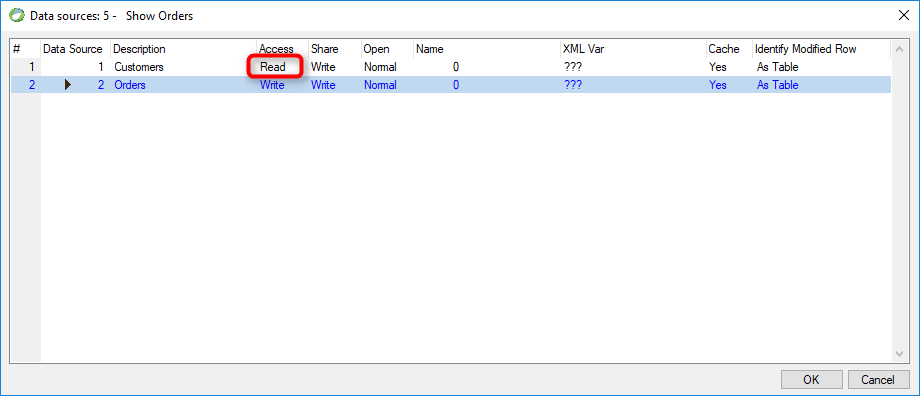
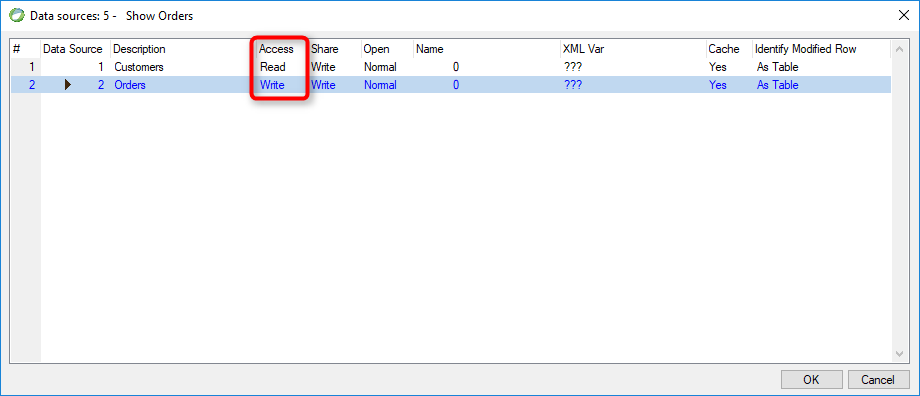
Update

Changed region(s): [[0.2435, 0.0909, 0.3652, 0.2727]]

diff --git a/access.html b/access.html
@@ -4,9 +4,9 @@
 <head>
     <meta http-equiv="X-UA-Compatible" content="IE=Edge" />
     <meta charset="utf-8" />
-    <meta name="keywords" content="Data Source, models">
+    <meta name="keywords" content="Datasource, Model , Table, Access, Read, Write">
 
-    <title>Data sources (Ctrl+D)</title>
+    <title>Read</title>
     <link rel="shortcut icon" href="favicon.png" type="image/x-icon" />
     <link rel="stylesheet" href="assets/css/toc.css" />
     <link rel="stylesheet" href="assets/css/highlight.css" />
@@ -29,15 +29,44 @@
                     <a id="previousButton" class="btn btn-neutral float-left" style="visibility:hidden">Previous</a>
                     <a id="nextButton" class="btn btn-neutral float-right" style="visibility:hidden">Next</a>
                 </div>
-                <div class="content"><h1 id="data-sources-ctrld">Data sources (Ctrl+D)</h1>
-<p>The following notes explain the equivalent to these properties in the migrated code.</p>
-<p><img src="2017-11-28_15h32_01.png" alt="" /></p>
+                <div class="content"><h1 id="read">Read</h1>
+<p>Name in Migrated Code: <strong>ReadOnly</strong> / <strong>AllowRowLocking</strong><br />
+Location in Migrated Code: <strong>Model Initializer</strong></p>
+<p><img src="2017-11-28_15h01_43.png" alt="" /></p>
+<h2 id="migrated-code-example">Migrated Code Example</h2>
+<p>Example Read:</p>
+<pre data-line="3" class="language-csdiff line-numbers"><code>readonly Models.Customers Customers = new Models.Customers 
+{ 
+         ReadOnly = true 
+}; </code></pre>
+<p>Example Write:</p>
+<pre data-line="3" class="language-csdiff line-numbers"><code>readonly Models.Customers Customers = new Models.Customers 
+{ 
+         AllowRowLocking = true
+}; </code></pre>
+<h2 id="property-values">Property Values</h2>
+<table>
+<thead>
+<tr>
+<th>Magic</th>
+<th>Migrated Code</th>
+</tr>
+</thead>
+<tbody>
+<tr>
+<td>Access = Write</td>
+<td>AllowRowLocking = true</td>
+</tr>
+<tr>
+<td>Access = Read</td>
+<td>ReadOnly = true</td>
+</tr>
+</tbody>
+</table>
+<h2 id="see-also">See Also :</h2>
 <ul>
-<li><a href="access.html">Access</a></li>
-<li><a href="share.html">Share</a></li>
-<li><a href="open.html">Open</a></li>
-<li><a href="name.html">Name</a></li>
-<li><a href="cached.html">Cached</a></li>
+<li><a href="http://www.fireflymigration.com/reference/html/P_Firefly_Box_Data_Entity_ReadOnly.htm">ReadOnly Property</a></li>
+<li><a href="http://www.fireflymigration.com/reference/html/P_Firefly_Box_Data_Entity_AllowRowLocking.htm">AllowRowLocking Property</a></li>
 </ul>
 
 
@@ -46,7 +75,7 @@
 
                         <a id="nextButton" class="btn btn-neutral" style="visibility:hidden;float:right">Next</a>
                     <hr />Help us improve,
-                    <a href="https://github.com/FireflyMigration/firefly-doc/blob/master//20-Getting-Familiar-with-Migrated-Code/10-Comparing-Migrated-Code-with-Magic/04-Data-Sources/index.md" target="_blank">Edit this page on GitHub</a>
+                    <a href="https://github.com/FireflyMigration/firefly-doc/blob/master//20-Getting-Familiar-with-Migrated-Code/10-Comparing-Migrated-Code-with-Magic/04-Data-Sources/10-Access.md" target="_blank">Edit this page on GitHub</a>
                     <br /> or email us at
                     <a href="mailto:info@fireflymigration.com?Subject=Firefly%20Documentation%20Website" target="_top">info@fireflymigration.com</a>
                 </div>
@@ -108,7 +137,7 @@
         </script>
         <script src="assets/js/tree.js"></script>
         <script language="javascript">
-            buildTree('menuTree', 'data-sources.html', 'previousButton', 'nextButton');
+            buildTree('menuTree', 'access.html', 'previousButton', 'nextButton');
         </script>
 </body>
 

diff --git a/open.html b/open.html
@@ -4,9 +4,9 @@
 <head>
     <meta http-equiv="X-UA-Compatible" content="IE=Edge" />
     <meta charset="utf-8" />
-    <meta name="keywords" content="Data Source, models">
+    <meta name="keywords" content="Datasource, Model , Table, Open, Normal, Reindex">
 
-    <title>Data sources (Ctrl+D)</title>
+    <title>Open</title>
     <link rel="shortcut icon" href="favicon.png" type="image/x-icon" />
     <link rel="stylesheet" href="assets/css/toc.css" />
     <link rel="stylesheet" href="assets/css/highlight.css" />
@@ -29,16 +29,38 @@
                     <a id="previousButton" class="btn btn-neutral float-left" style="visibility:hidden">Previous</a>
                     <a id="nextButton" class="btn btn-neutral float-right" style="visibility:hidden">Next</a>
                 </div>
-                <div class="content"><h1 id="data-sources-ctrld">Data sources (Ctrl+D)</h1>
-<p>The following notes explain the equivalent to these properties in the migrated code.</p>
-<p><img src="2017-11-28_15h32_01.png" alt="" /></p>
-<ul>
-<li><a href="access.html">Access</a></li>
-<li><a href="share.html">Share</a></li>
-<li><a href="open.html">Open</a></li>
-<li><a href="name.html">Name</a></li>
-<li><a href="cached.html">Cached</a></li>
-</ul>
+                <div class="content"><h1 id="open">Open</h1>
+<p>Name in Migrated Code: <strong>OpenMode</strong><br />
+Location in Migrated Code: <strong>Model Initializer</strong></p>
+<p><img src="2017-11-28_16h23_05.png" alt="" /></p>
+<h2 id="migrated-code-example">Migrated Code Example</h2>
+<p>Example:</p>
+<pre data-line="3" class="language-csdiff line-numbers"><code>internal readonly Models.Customers Customers = new Models.Customers
+{ 
+         OpenMode = ENV.Data.DataProvider.BtrieveOpenMode.Normal
+}; </code></pre>
+<h2 id="property-values">Property Values</h2>
+<table>
+<thead>
+<tr>
+<th>Magic Value</th>
+<th>Migrated Code Value</th>
+</tr>
+</thead>
+<tbody>
+<tr>
+<td>Normal</td>
+<td>BtrieveOpenMode.Normal</td>
+</tr>
+<tr>
+<td>Reindex</td>
+<td>BtrieveOpenMode.Reindex</td>
+</tr>
+</tbody>
+</table>
+<p>The default is BtrieveOpenMode.Normal</p>
+<h2 id="note">Note :</h2>
+<p>Relevant only for Btrieve</p>
 
 
 
@@ -46,7 +68,7 @@
 
                         <a id="nextButton" class="btn btn-neutral" style="visibility:hidden;float:right">Next</a>
                     <hr />Help us improve,
-                    <a href="https://github.com/FireflyMigration/firefly-doc/blob/master//20-Getting-Familiar-with-Migrated-Code/10-Comparing-Migrated-Code-with-Magic/04-Data-Sources/index.md" target="_blank">Edit this page on GitHub</a>
+                    <a href="https://github.com/FireflyMigration/firefly-doc/blob/master//20-Getting-Familiar-with-Migrated-Code/10-Comparing-Migrated-Code-with-Magic/04-Data-Sources/30-Open.md" target="_blank">Edit this page on GitHub</a>
                     <br /> or email us at
                     <a href="mailto:info@fireflymigration.com?Subject=Firefly%20Documentation%20Website" target="_top">info@fireflymigration.com</a>
                 </div>
@@ -108,7 +130,7 @@
         </script>
         <script src="assets/js/tree.js"></script>
         <script language="javascript">
-            buildTree('menuTree', 'data-sources.html', 'previousButton', 'nextButton');
+            buildTree('menuTree', 'open.html', 'previousButton', 'nextButton');
         </script>
 </body>
 

diff --git a/share.html b/share.html
@@ -4,9 +4,9 @@
 <head>
     <meta http-equiv="X-UA-Compatible" content="IE=Edge" />
     <meta charset="utf-8" />
-    <meta name="keywords" content="Data Source, models">
+    <meta name="keywords" content="Datasource, Model , Table, Share, Write, Read, None">
 
-    <title>Data sources (Ctrl+D)</title>
+    <title>Share</title>
     <link rel="shortcut icon" href="favicon.png" type="image/x-icon" />
     <link rel="stylesheet" href="assets/css/toc.css" />
     <link rel="stylesheet" href="assets/css/highlight.css" />
@@ -29,16 +29,39 @@
                     <a id="previousButton" class="btn btn-neutral float-left" style="visibility:hidden">Previous</a>
                     <a id="nextButton" class="btn btn-neutral float-right" style="visibility:hidden">Next</a>
                 </div>
-                <div class="content"><h1 id="data-sources-ctrld">Data sources (Ctrl+D)</h1>
-<p>The following notes explain the equivalent to these properties in the migrated code.</p>
-<p><img src="2017-11-28_15h32_01.png" alt="" /></p>
-<ul>
-<li><a href="access.html">Access</a></li>
-<li><a href="share.html">Share</a></li>
-<li><a href="open.html">Open</a></li>
-<li><a href="name.html">Name</a></li>
-<li><a href="cached.html">Cached</a></li>
-</ul>
+                <div class="content"><h1 id="share">Share</h1>
+<p>Name in Migrated Code: <strong>FileSharing</strong><br />
+Location in Migrated Code: <strong>Model Initializer</strong></p>
+<p><img src="2017-11-28_16h05_24.png" alt="" /></p>
+<h2 id="migrated-code-example">Migrated Code Example</h2>
+<pre data-line="3" class="language-csdiff line-numbers"><code>readonly Models.Customers Customers = new Models.Customers
+{ 
+         FileSharing = ENV.Data.DataProvider.BtrieveFileSharing.Read 
+}; </code></pre>
+<h2 id="property-values">Property Values</h2>
+<table>
+<thead>
+<tr>
+<th>Magic Value</th>
+<th>Migrated Code Value</th>
+</tr>
+</thead>
+<tbody>
+<tr>
+<td>Write</td>
+<td>BtrieveFileSharing.Write</td>
+</tr>
+<tr>
+<td>Read</td>
+<td>BtrieveFileSharing.Read</td>
+</tr>
+<tr>
+<td>None</td>
+<td>BtrieveFileSharing.None</td>
+</tr>
+</tbody>
+</table>
+<p>The default is BtrieveFileSharing.Write</p>
 
 
 
@@ -46,7 +69,7 @@
 
                         <a id="nextButton" class="btn btn-neutral" style="visibility:hidden;float:right">Next</a>
                     <hr />Help us improve,
-                    <a href="https://github.com/FireflyMigration/firefly-doc/blob/master//20-Getting-Familiar-with-Migrated-Code/10-Comparing-Migrated-Code-with-Magic/04-Data-Sources/index.md" target="_blank">Edit this page on GitHub</a>
+                    <a href="https://github.com/FireflyMigration/firefly-doc/blob/master//20-Getting-Familiar-with-Migrated-Code/10-Comparing-Migrated-Code-with-Magic/04-Data-Sources/20-Share.md" target="_blank">Edit this page on GitHub</a>
                     <br /> or email us at
                     <a href="mailto:info@fireflymigration.com?Subject=Firefly%20Documentation%20Website" target="_top">info@fireflymigration.com</a>
                 </div>
@@ -108,7 +131,7 @@
         </script>
         <script src="assets/js/tree.js"></script>
         <script language="javascript">
-            buildTree('menuTree', 'data-sources.html', 'previousButton', 'nextButton');
+            buildTree('menuTree', 'share.html', 'previousButton', 'nextButton');
         </script>
 </body>
 

diff --git a/cached.html b/cached.html
@@ -31,16 +31,15 @@
                 </div>
                 <div class="content"><h1 id="cached">Cached</h1>
 <p>Name in Migrated Code: <strong>Cached</strong><br />
-Location in Migrated Code: <strong>Class</strong> (in Model region)</p>
+Location in Migrated Code: <strong>Model Initializer</strong></p>
 <p><img src="2017-11-28_15h19_18.png" alt="" /></p>
 <h2 id="migrated-code-example">Migrated Code Example</h2>
-<p>Example cache = No:</p>
 <pre data-line="3" class="language-csdiff line-numbers"><code>internal readonly Models.Customers Customers = new Models.Customers 
 { 
      Cached = true
 }; </code></pre>
 <h2 id="property-values">Property Values</h2>
-<p>Yes or no. The default is <strong>false</strong> which is Cached = Yes in Magic</p>
+<p>True or false. The default is <strong>false</strong></p>
 <h2 id="see-also">See Also :</h2>
 <ul>
 <li><a href="http://www.fireflymigration.com/reference/html/P_Firefly_Box_Data_Entity_Cached.htm">Cached Property</a></li>
@@ -52,7 +51,7 @@ Location in Migrated Code: <strong>Class</strong> (in Model region)</p>
 
                         <a id="nextButton" class="btn btn-neutral" style="visibility:hidden;float:right">Next</a>
                     <hr />Help us improve,
-                    <a href="https://github.com/FireflyMigration/firefly-doc/blob/master//20-Getting-Familiar-with-Migrated-Code/10-Comparing-Migrated-Code-with-Magic/04-Data-Sources/90-Cached.md" target="_blank">Edit this page on GitHub</a>
+                    <a href="https://github.com/FireflyMigration/firefly-doc/blob/master//20-Getting-Familiar-with-Migrated-Code/10-Comparing-Migrated-Code-with-Magic/04-Data-Sources/50-Cached.md" target="_blank">Edit this page on GitHub</a>
                     <br /> or email us at
                     <a href="mailto:info@fireflymigration.com?Subject=Firefly%20Documentation%20Website" target="_top">info@fireflymigration.com</a>
                 </div>

diff --git a/name.html b/name.html
@@ -31,10 +31,9 @@
                 </div>
                 <div class="content"><h1 id="name">Name</h1>
 <p>Name in Migrated Code: <strong>EntityName</strong><br />
-Location in Migrated Code: <strong>OnLoad Method</strong></p>
+Location in Migrated Code: <strong>OnLoad</strong></p>
 <p><img src="2017-11-28_15h16_00.png" alt="" /></p>
 <h2 id="migrated-code-example">Migrated Code Example</h2>
-<p>Example:</p>
 <pre data-line="3" class="language-csdiff line-numbers"><code>protected override void OnLoad()
 {
    Customers.EntityName = "%PATH%FileName";
@@ -46,7 +45,7 @@ Location in Migrated Code: <strong>OnLoad Method</strong></p>
 
                         <a id="nextButton" class="btn btn-neutral" style="visibility:hidden;float:right">Next</a>
                     <hr />Help us improve,
-                    <a href="https://github.com/FireflyMigration/firefly-doc/blob/master//20-Getting-Familiar-with-Migrated-Code/10-Comparing-Migrated-Code-with-Magic/04-Data-Sources/80-Name.md" target="_blank">Edit this page on GitHub</a>
+                    <a href="https://github.com/FireflyMigration/firefly-doc/blob/master//20-Getting-Familiar-with-Migrated-Code/10-Comparing-Migrated-Code-with-Magic/04-Data-Sources/40-Name.md" target="_blank">Edit this page on GitHub</a>
                     <br /> or email us at
                     <a href="mailto:info@fireflymigration.com?Subject=Firefly%20Documentation%20Website" target="_top">info@fireflymigration.com</a>
                 </div>

diff --git a/general-tab.html b/general-tab.html
@@ -35,10 +35,8 @@
 <p>The following sections explain the equivalent of these properties in the migrated code.</p>
 <ul>
 <li><a href="task-name.html">Task Name</a></li>
-<li><a href="selection-table-(advanced-tab).html">Selection Table (Advanced Tab)</a></li>
 <li><a href="task-type.html">Task Type</a></li>
 <li><a href="initial-mode.html">Initial Mode</a></li>
-<li><a href="resident-task-(advanced-tab).html">Resident Task (Advanced Tab)</a></li>
 <li><a href="end-task-condition-evaluate-condition-for-end-task.html">End Task Condition Evaluate Condition for End Task</a></li>
 <li><a href="return-value.html">Return Value</a></li>
 <li><a href="selection-table.html">Selection Table</a></li>
